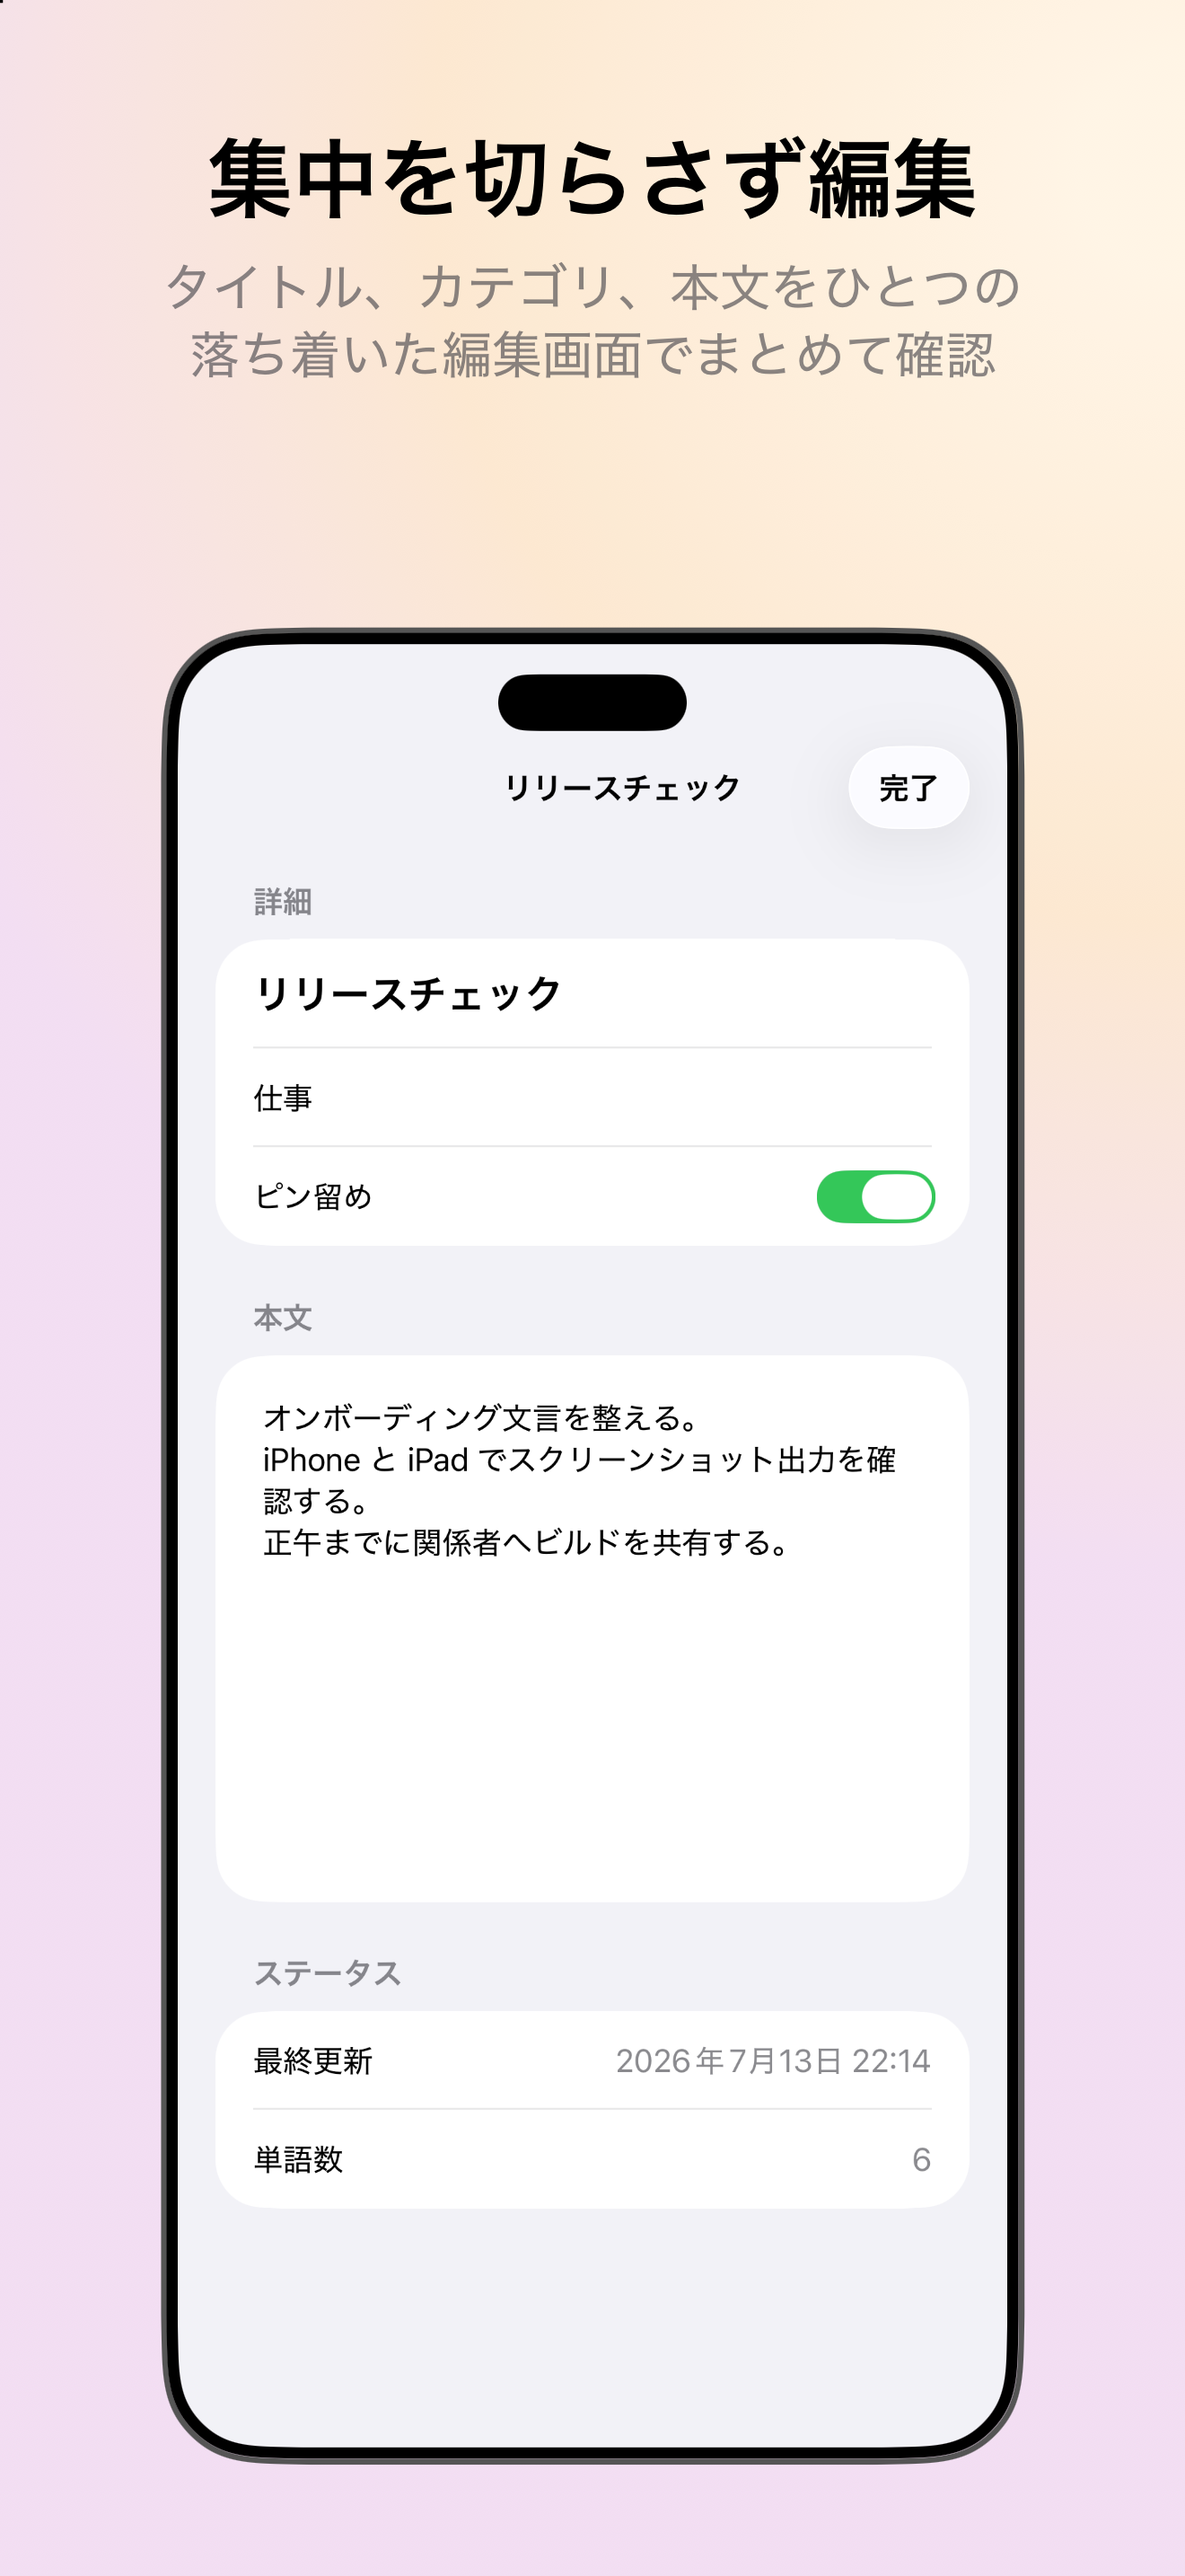
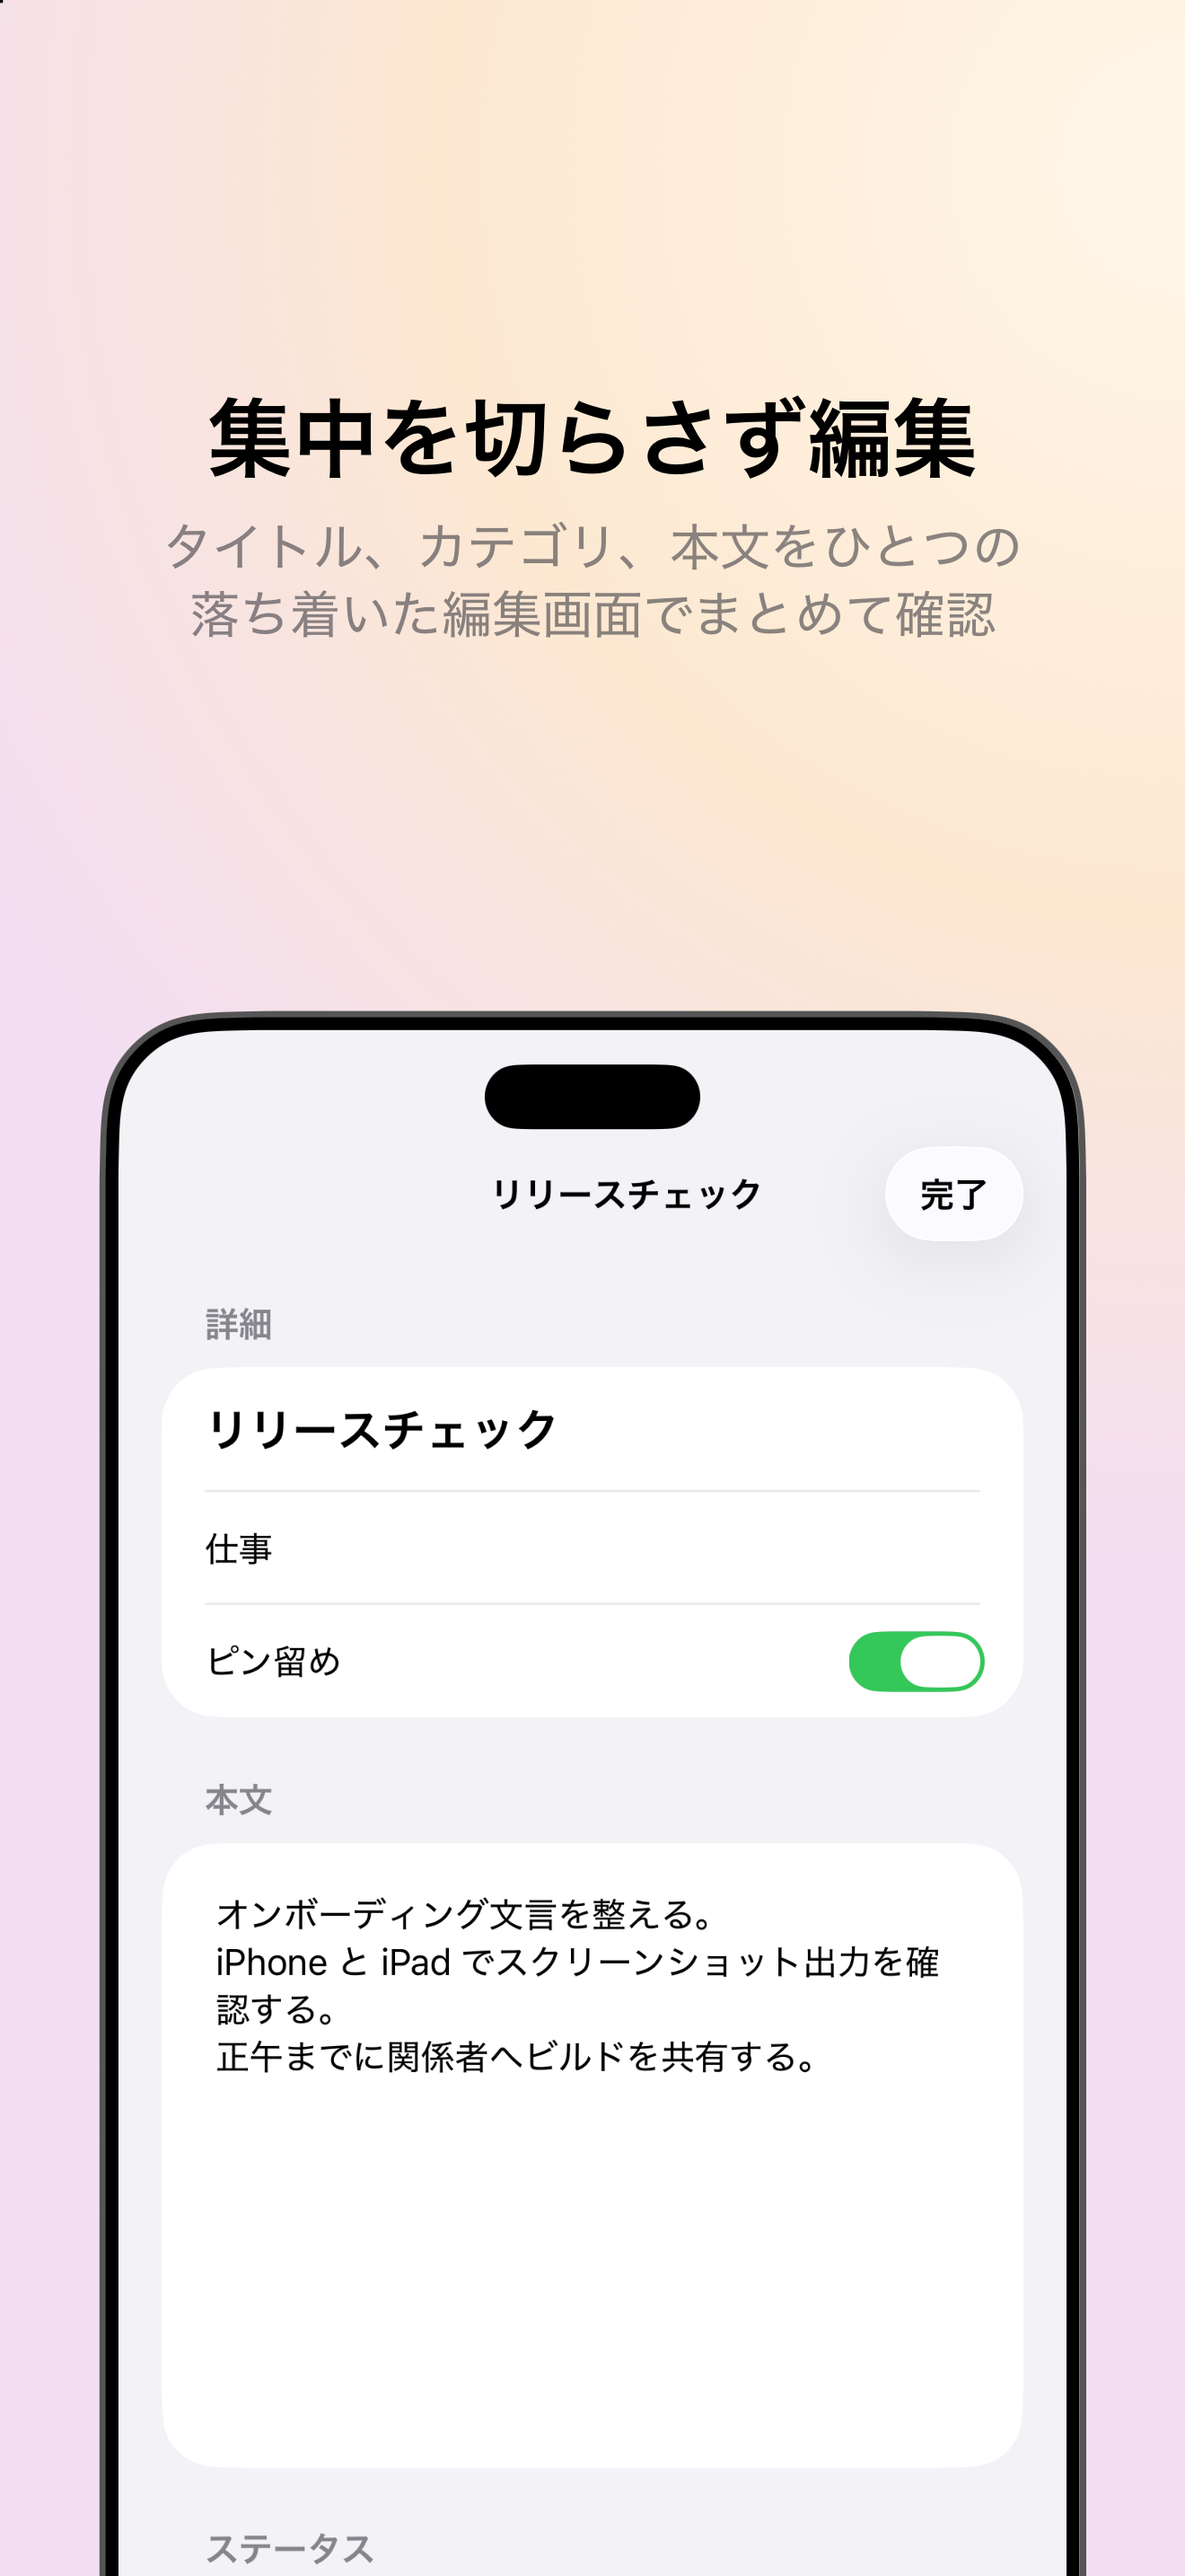
Release 1.3.0

diff --git a/Sources/ScreenshotKit/Presentation/Styles/HeroScreenshotStyle.swift b/Sources/ScreenshotKit/Presentation/Styles/HeroScreenshotStyle.swift
@@ -4,9 +4,6 @@
 //
 
 import SwiftUI
-#if canImport(UIKit)
-import UIKit
-#endif
 
 public struct HeroScreenshotStyle: ScreenshotStyle {
     public init() {}
@@ -14,21 +11,6 @@ public struct HeroScreenshotStyle: ScreenshotStyle {
     @MainActor
     public func makeBody(configuration: ScreenshotStyleConfiguration) -> some View {
         GeometryReader { proxy in
-            let screenHeight = Self.currentScreenHeight(
-                fallbackHeight: proxy.size.height
-            )
-            let titleSubtitleVerticalOffset = Self.titleSubtitleVerticalOffset(
-                deviceKind: deviceKind,
-                screenHeight: screenHeight,
-                topSafeAreaInset: proxy.safeAreaInsets.top,
-                titleTopOffsetRatio: Self.titleTopOffsetRatio
-            )
-            let previewSafeAreaCompensation = Self.previewSafeAreaCompensation(
-                isRunningForPreview: isRunningForPreview,
-                deviceKind: deviceKind,
-                topSafeAreaInset: proxy.safeAreaInsets.top
-            )
-
             ScreenshotDeviceScreenView(
                 screenshotContent: configuration.screenshotContent
             )
@@ -36,57 +18,36 @@ public struct HeroScreenshotStyle: ScreenshotStyle {
             .scaleEffect(deviceScale)
             .offset(x: 0, y: proxy.size.height * deviceVerticalOffsetRatio)
             .overlay(alignment: .top) {
-                VStack(spacing: titleSubtitleSpacing) {
-                    configuration.title
-                        .multilineTextAlignment(.center)
-                    configuration.subtitle
-                        .multilineTextAlignment(.center)
-                }
-                .padding(.horizontal, titleSubtitleHorizontalPadding)
-                .offset(x: 0, y: titleSubtitleVerticalOffset)
+                // proxy.size.height は safe area を含むキャンバス全体の高さ。
+                // 0.25H の領域を上端に置き、その中心を 0.125H に固定する。
+                textContent(configuration: configuration)
+                    .frame(maxWidth: .infinity)
+                    .frame(height: proxy.size.height * Self.textRegionHeightRatio)
             }
-            .offset(x: 0, y: previewSafeAreaCompensation)
         }
         .frame(maxWidth: .infinity, maxHeight: .infinity)
         .ignoresSafeArea()
     }
+
+    private func textContent(configuration: ScreenshotStyleConfiguration) -> some View {
+        VStack(spacing: titleSubtitleSpacing) {
+            configuration.title
+                .multilineTextAlignment(.center)
+                .lineLimit(nil)
+                .frame(maxWidth: .infinity)
+                .fixedSize(horizontal: false, vertical: true)
+            configuration.subtitle
+                .multilineTextAlignment(.center)
+                .lineLimit(nil)
+                .frame(maxWidth: .infinity)
+                .fixedSize(horizontal: false, vertical: true)
+        }
+        .padding(.horizontal, titleSubtitleHorizontalPadding)
+    }
 }
 
 private extension HeroScreenshotStyle {
-    static let titleTopOffsetRatio: CGFloat = 46 / 956
-
-    static func currentScreenHeight(fallbackHeight: CGFloat) -> CGFloat {
-#if canImport(UIKit)
-        return UIScreen.main.bounds.height
-#else
-        return fallbackHeight
-#endif
-    }
-
-    static func titleSubtitleVerticalOffset(
-        deviceKind: ScreenshotDeviceKind,
-        screenHeight: CGFloat,
-        topSafeAreaInset: CGFloat,
-        titleTopOffsetRatio: CGFloat
-    ) -> CGFloat {
-        let baseTopOffset = max(topSafeAreaInset, screenHeight * titleTopOffsetRatio)
-
-        switch deviceKind {
-        case .phone:
-            return baseTopOffset
-        case .pad:
-            return baseTopOffset + screenHeight * titleTopOffsetRatio
-        }
-    }
-
-    static func previewSafeAreaCompensation(
-        isRunningForPreview: Bool,
-        deviceKind: ScreenshotDeviceKind,
-        topSafeAreaInset: CGFloat
-    ) -> CGFloat {
-        guard isRunningForPreview, deviceKind == .phone else { return 0 }
-        return topSafeAreaInset
-    }
+    static let textRegionHeightRatio: CGFloat = 0.25
 }
 
 public extension ScreenshotStyle where Self == HeroScreenshotStyle {

diff --git a/ExampleApp/ExampleApp/ExampleScreenshotItems.swift b/ExampleApp/ExampleApp/ExampleScreenshotItems.swift
@@ -22,12 +22,12 @@ struct MemoListScreenshot: ScreenshotItem {
                 endPoint: .bottomTrailing
             )
         )
+        .screenshotStyle(.default)
     }
 }
 
 #Preview {
     MemoListScreenshot()
-        .screenshotStyle(.default)
 }
 
 struct MemoEditScreenshot: ScreenshotItem {
@@ -52,12 +52,12 @@ struct MemoEditScreenshot: ScreenshotItem {
                 endRadius: 520
             )
         )
+        .screenshotStyle(.deviceTop)
     }
 }
 
 #Preview {
     MemoEditScreenshot()
-        .screenshotStyle(.deviceTop)
 }
 
 struct MemoPreviewScreenshot: ScreenshotItem {
@@ -80,11 +80,11 @@ struct MemoPreviewScreenshot: ScreenshotItem {
                 endPoint: .topTrailing
             )
         )
+        .screenshotStyle(.deviceBottom)
     }
 }
 
 
 #Preview {
     MemoPreviewScreenshot()
-        .screenshotStyle(.deviceBottom)
 }

diff --git a/README_ja.md b/README_ja.md
@@ -40,7 +40,7 @@ https://github.com/kmatsushita1012/ScreenshotKit.git
 
 ```swift
 dependencies: [
-    .package(url: "https://github.com/kmatsushita1012/ScreenshotKit.git", from: "1.2.0")
+    .package(url: "https://github.com/kmatsushita1012/ScreenshotKit.git", from: "1.3.0")
 ]
 ```
 

diff --git a/README.md b/README.md
@@ -40,7 +40,7 @@ Or in `Package.swift`:
 
 ```swift
 dependencies: [
-    .package(url: "https://github.com/kmatsushita1012/ScreenshotKit.git", from: "1.2.0")
+    .package(url: "https://github.com/kmatsushita1012/ScreenshotKit.git", from: "1.3.0")
 ]
 ```
 
